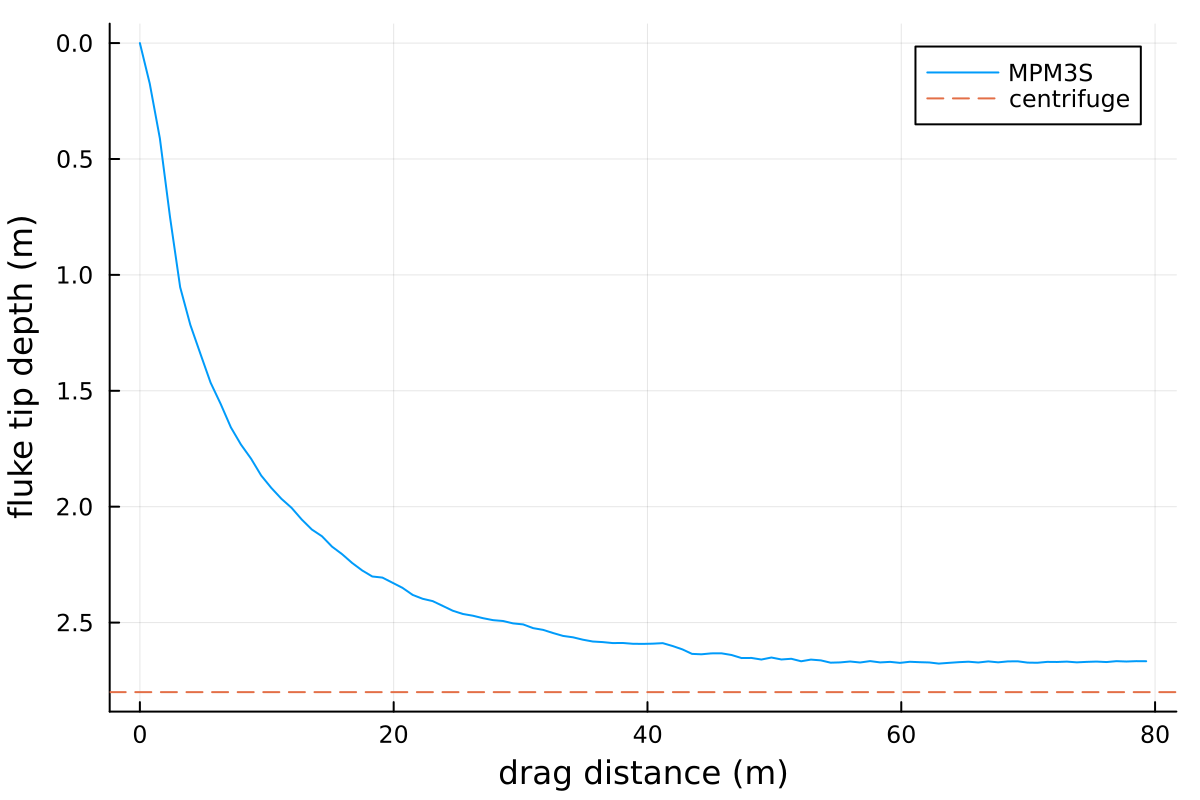
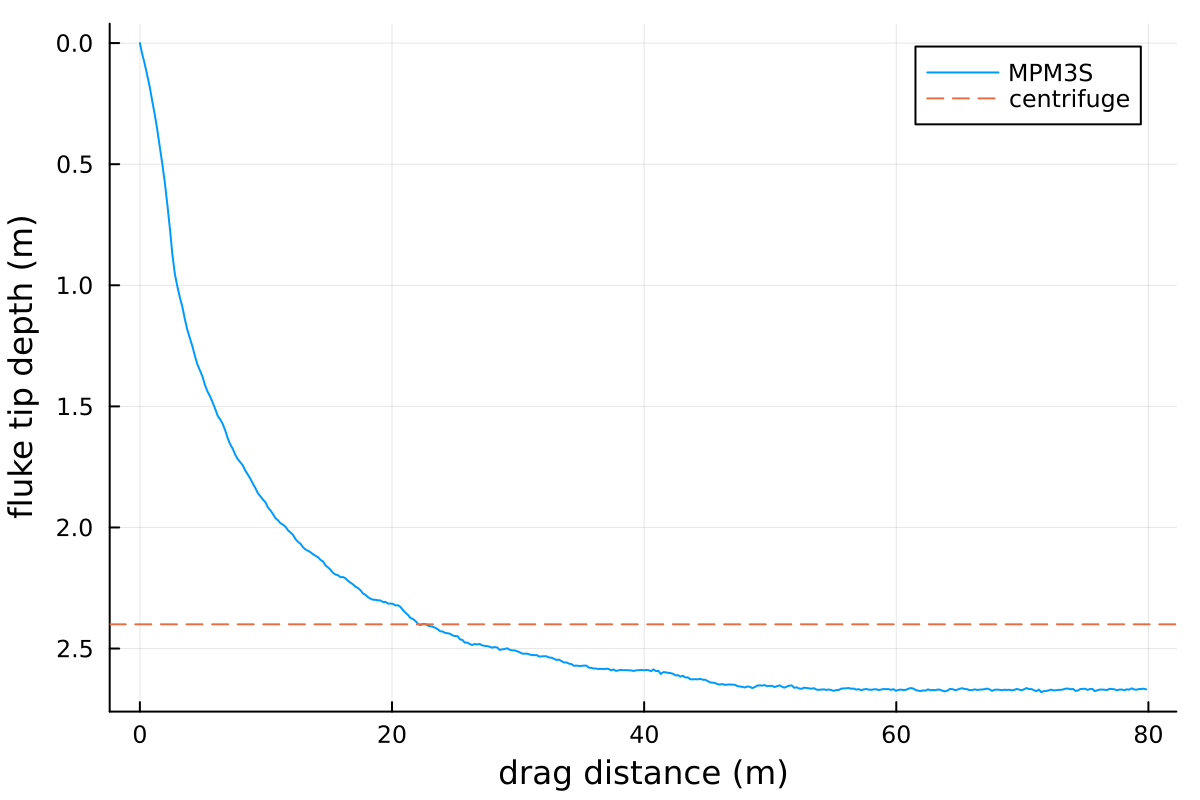
actual result

diff --git a/docs/docs/TutorialProblems/Tutorial_6.md b/docs/docs/TutorialProblems/Tutorial_6.md
@@ -648,7 +648,7 @@ The VTK files are written to `vtk_AC14_dr32` (see [Output](#output)). The walkth
 
 The `time` column restarts at the start of each stage.
 
-The short Julia script below plots the depth of the fluke tip against the drag distance in stage 3, with the final depth measured in the centrifuge, $2.8$ m [@sharif]. Run it from the `MPM3S` folder, either by copying it into the REPL or by saving it as `anchor_depth.jl` and running `include("anchor_depth.jl")`. It needs [Plots](https://docs.juliaplots.org/), installed as described in [Tutorial 1](Tutorial_1.md#analysing-the-stress-variation-with-height).
+The short Julia script below plots the depth of the fluke tip against the drag distance in stage 3, with the final depth measured in the centrifuge, $2.4$ m [@sharif]. Run it from the `MPM3S` folder, either by copying it into the REPL or by saving it as `anchor_depth.jl` and running `include("anchor_depth.jl")`. It needs [Plots](https://docs.juliaplots.org/), installed as described in [Tutorial 1](Tutorial_1.md#analysing-the-stress-variation-with-height).
 
 ```julia
 using DelimitedFiles, Plots
@@ -665,16 +665,16 @@ s  = i0:length(x_pull)
 drag  = x_pull[s] .- x_pull[i0]       # drag distance (m)
 depth = z_tip[i0] .- z_tip[s]         # depth of the fluke tip below its position at t = 0 (m)
 
-println("final depth: MPM3S ", round(depth[end], digits=2), " m, centrifuge 2.8 m")
+println("final depth: MPM3S ", round(depth[end], digits=2), " m, centrifuge 2.4 m")
 
 plot(drag, depth, yflip=true, label="MPM3S", xlabel="drag distance (m)", ylabel="fluke tip depth (m)", legend=:topright)
-hline!([2.8], linestyle=:dash, label="centrifuge")
+hline!([2.4], linestyle=:dash, label="centrifuge")
 ```
 
 For this run it prints:
 
 ```text
-final depth: MPM3S 2.67 m, centrifuge 2.8 m
+final depth: MPM3S 2.67 m, centrifuge 2.4 m
 ```
 
 ![Depth of the fluke tip below its position at the start of stage 3 against drag distance, with the final depth measured in the centrifuge.](../../img/Tutorial_6/anchor_depth.png){ #fig-anchor-depth width="50%" }
